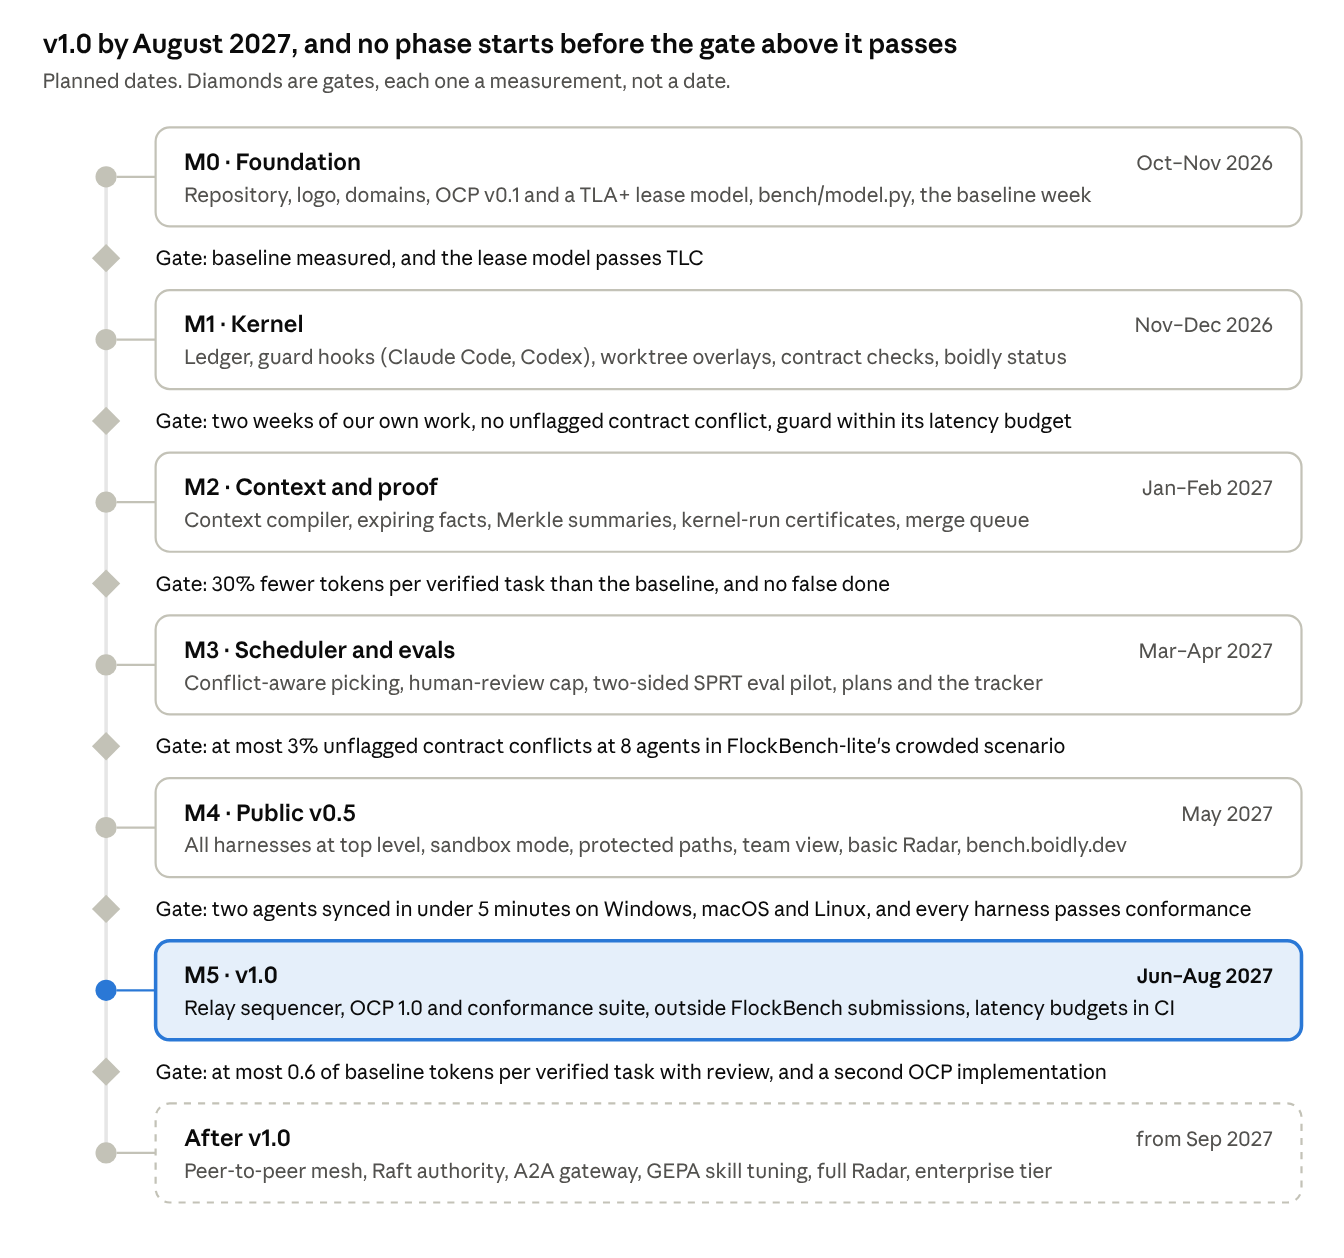
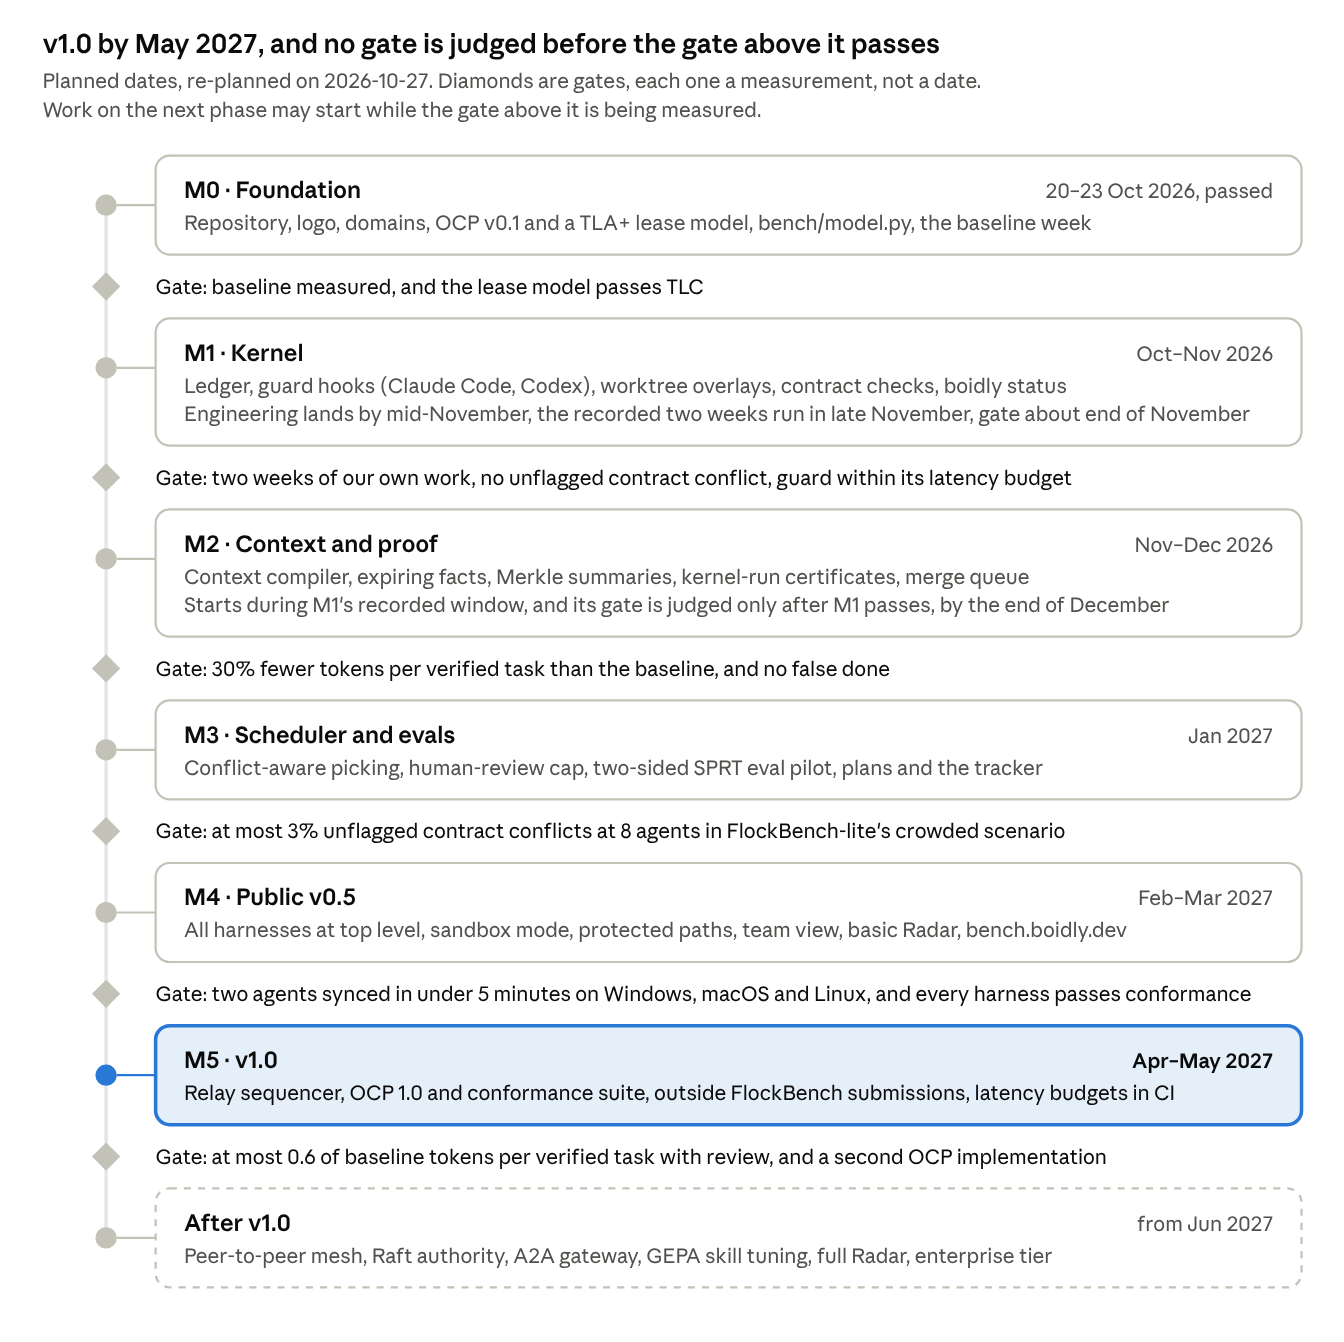
Re-plan the profile's roadmap dates from the measured pace of M0 and M1
The roadmap table, the release note and the roadmap image now carry the
dates the blueprint re-planned: M1 Oct to Nov 2026, M2 Nov to Dec 2026,
M3 Jan 2027, M4 Feb to Mar 2027, M5 Apr to May 2027. Work on the next
phase may start while the gate above it is measured, but no gate is
judged before the gate above it passes. The gates are unchanged.

diff --git a/profile/README.md b/profile/README.md
@@ -18,7 +18,7 @@
 Boidly builds open infrastructure that turns a crowd of AI coding agents into a team. Claude Code, Codex, Gemini CLI, Cursor, Copilot and the rest already work in the same repositories, and they fail together. In CooperBench, agents succeed about 30% less often working together than alone ([Khatua et al., 2026](https://arxiv.org/abs/2601.13295)). We are building the kernel that sits between all of them: one Rust binary, every major harness, no account, and an open protocol anyone can implement.
 
 > [!NOTE]
-> Boidly is in the design stage. The blueprint, the logo and the model behind every number are written. The source opens when the first milestone, M0, is done, and the first public release, v0.5, is planned for May 2027.
+> Boidly is in the design stage. The blueprint, the logo and the model behind every number are written. The source opens when the first milestone, M0, is done, and the first public release, v0.5, is planned for March 2027.
 
 ## What we are building
 
@@ -85,17 +85,17 @@ Boidly speaks the standards agents already use: MCP, AGENTS.md, Agent Skills and
 
 ## Roadmap
 
-Every phase opens on a measurement, not a date, so no phase can pass on effort alone.
+Every phase opens on a measurement, not a date, so no phase can pass on effort alone. Work on the next phase may start while the gate above it is being measured, but no gate is judged before the gate above it passes. The dates were re-planned on 2026-10-27 from the measured pace of M0 and M1.
 
 | Phase | When (planned) | What ships | Gate to the next phase |
 | --- | --- | --- | --- |
-| M0 · Foundation | Oct to Nov 2026 | Repository, brand, domains, OCP v0.1 and a TLA+ lease model, the cost model, a baseline week | Baseline measured, and the lease model passes TLC |
-| M1 · Kernel | Nov to Dec 2026 | Ledger, guard hooks for Claude Code and Codex, worktree overlays, contract checks, `boidly status` | Two weeks of our own work with no unflagged contract conflict, and the guard within its latency budget |
-| M2 · Context and proof | Jan to Feb 2027 | Context compiler, expiring facts, Merkle summaries, kernel-run certificates, merge queue | 30% fewer tokens per verified task than the baseline, and no false done |
-| M3 · Scheduler and evals | Mar to Apr 2027 | Conflict-aware picking, a human-review cap, an eval pilot with two-sided sequential tests, plans and the tracker | At most 3% unflagged contract conflicts at 8 agents in FlockBench-lite |
-| M4 · Public v0.5 | May 2027 | Every harness at its highest level, sandbox mode, protected paths, the team view, a basic Radar, `bench.boidly.dev` | Two agents synced in under 5 minutes on Windows, macOS and Linux, and every harness passes conformance |
-| M5 · v1.0 | Jun to Aug 2027 | Relay sequencer, OCP 1.0 and its conformance suite, outside FlockBench submissions, latency budgets in CI | At most 0.6 of baseline tokens per verified task with review, and a second OCP implementation |
-| After v1.0 | from Sep 2027 | Peer-to-peer mesh, Raft authority, A2A gateway, skill tuning, full Radar, an enterprise tier | |
+| M0 · Foundation | 20 to 23 Oct 2026, passed | Repository, brand, domains, OCP v0.1 and a TLA+ lease model, the cost model, a baseline week | Baseline measured, and the lease model passes TLC |
+| M1 · Kernel | Oct to Nov 2026 | Ledger, guard hooks for Claude Code and Codex, worktree overlays, contract checks, `boidly status` | Two weeks of our own work with no unflagged contract conflict, and the guard within its latency budget |
+| M2 · Context and proof | Nov to Dec 2026 | Context compiler, expiring facts, Merkle summaries, kernel-run certificates, merge queue | 30% fewer tokens per verified task than the baseline, and no false done |
+| M3 · Scheduler and evals | Jan 2027 | Conflict-aware picking, a human-review cap, an eval pilot with two-sided sequential tests, plans and the tracker | At most 3% unflagged contract conflicts at 8 agents in FlockBench-lite |
+| M4 · Public v0.5 | Feb to Mar 2027 | Every harness at its highest level, sandbox mode, protected paths, the team view, a basic Radar, `bench.boidly.dev` | Two agents synced in under 5 minutes on Windows, macOS and Linux, and every harness passes conformance |
+| M5 · v1.0 | Apr to May 2027 | Relay sequencer, OCP 1.0 and its conformance suite, outside FlockBench submissions, latency budgets in CI | At most 0.6 of baseline tokens per verified task with review, and a second OCP implementation |
+| After v1.0 | from Jun 2027 | Peer-to-peer mesh, Raft authority, A2A gateway, skill tuning, full Radar, an enterprise tier | |
 
 ## What we believe
 
